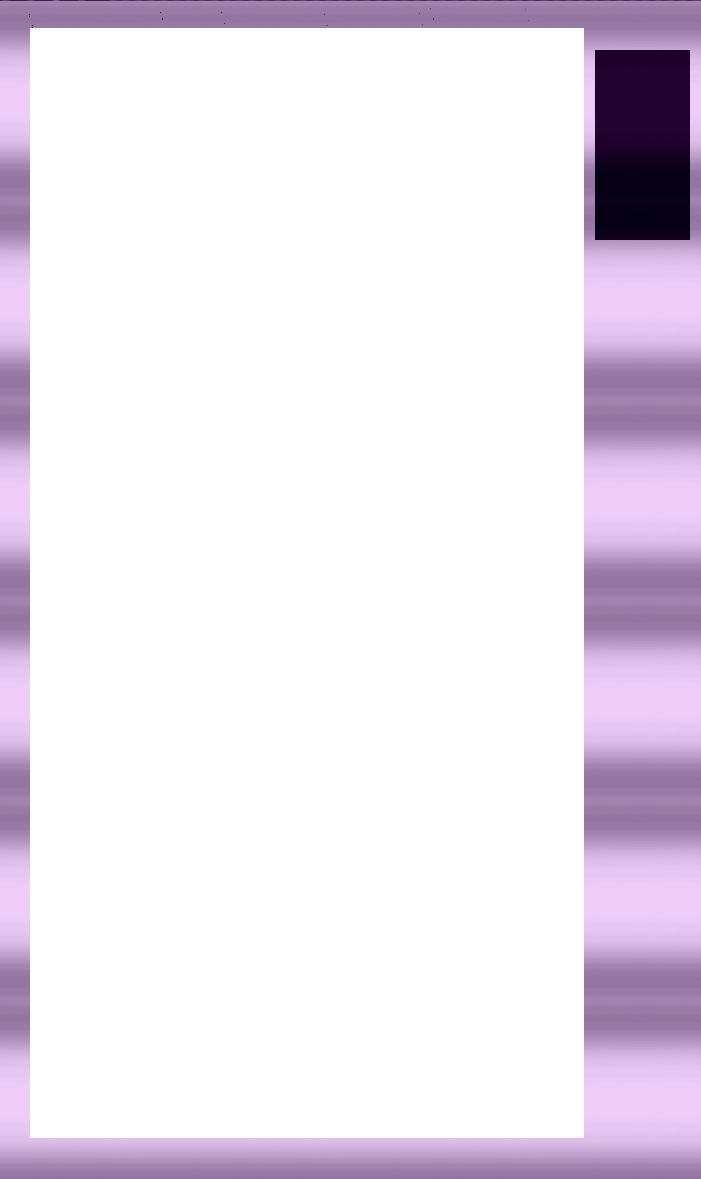
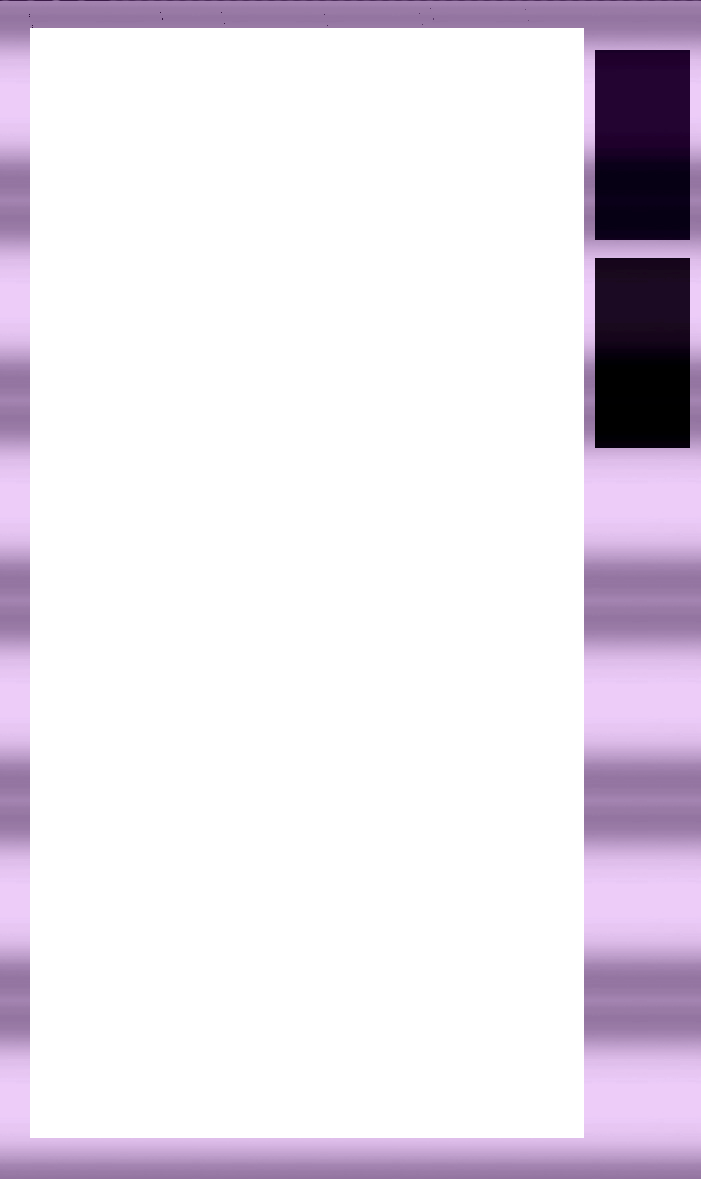
DEUX PUYOS EN RESERVE

Changed region(s): [[0.8388, 0.2137, 0.9886, 0.3969]]

diff --git a/PPProject/PPProject/Cocossharp/Layers/GameLayer.cs b/PPProject/PPProject/Cocossharp/Layers/GameLayer.cs
@@ -15,6 +15,7 @@ namespace PPProject.Cocossharp.Layers
         // Define a label variable
         private Pair pair = null;
         private Pair waitingPair = null;
+        private Pair waitingPair2 = null;
         private Puyo p;
         private Grid grid;
         private CCRect bounds;
@@ -30,6 +31,7 @@ namespace PPProject.Cocossharp.Layers
             frame.Position = new CCPoint(0, 0);
             frame.Scale = 0.85f;
             waitingPair = new Pair(grid);
+            waitingPair2 = new Pair(grid);
             AddChild(grid);
             AddChild(frame);
             //SetTimer();
@@ -44,10 +46,13 @@ namespace PPProject.Cocossharp.Layers
             */
             
             pair = new Pair(grid, waitingPair.GetP1().GetColor(), waitingPair.GetP2().GetColor());
-            waitingPair = new Pair(grid);
+            waitingPair = new Pair(grid, waitingPair2.GetP1().GetColor(), waitingPair2.GetP2().GetColor());
+            waitingPair2 = new Pair(grid);
             waitingPair.Position = new CCPoint(507, 802);
+            waitingPair2.Position = new CCPoint(507, 625);
             AddChild(pair);
             AddChild(waitingPair);
+            AddChild(waitingPair2);
             GetPairStarted(); //Place la paire au point de départ
             Schedule(ApplyVelocity); //Lance la paire
             
@@ -87,7 +92,7 @@ namespace PPProject.Cocossharp.Layers
 
         public void GameOver()
         {
-            RemoveAllChildren();
+            RemoveChild(grid);
             var label = new CCLabel("Game Over", " ", 80);
             label.Color = CCColor3B.White;
             label.PositionX = 250;
